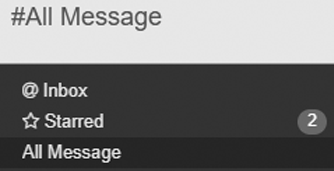
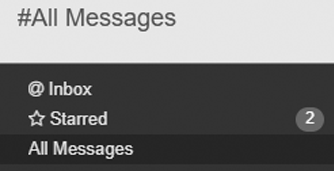
fix 8-14 15:06

diff --git a/show_all_messages/static/js/chat_manager.js b/show_all_messages/static/js/chat_manager.js
@@ -1058,7 +1058,7 @@ function init () {
 
     add_channel({
         id: "all_message",
-        name: _lt("All Message"),
+        name: _lt("All Messages"),
         type: "static"
     });
 

diff --git a/show_all_messages/models/models.py b/show_all_messages/models/models.py
@@ -11,8 +11,8 @@ class AllMessage(models.Model):
 
     _inherit = "mail.message"
     allmessage = fields.Boolean(
-        'All Message', compute='_get_allmessage', search='_search_allmessage',
-        help='All Message')
+        'All Messages', compute='_get_allmessage', search='_search_allmessage',
+        help='All Messages')
 
     @api.multi
     def _get_allmessage(self):
